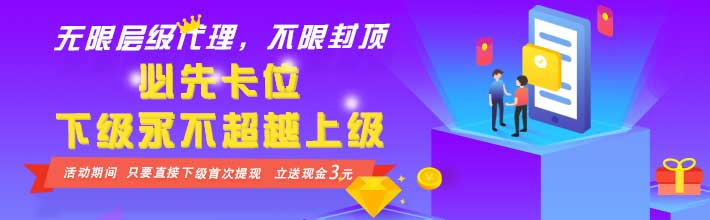
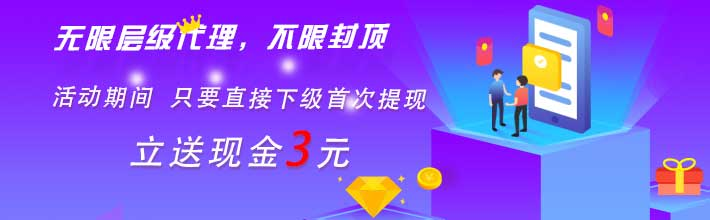
修改内容 替换图片

Changed region(s): [[0.031, 0.2727, 0.6197, 0.9]]

diff --git a/item2/收益说明.html b/item2/收益说明.html
@@ -8,7 +8,7 @@
 		<link rel="stylesheet" href="css/swiper.min.css"/>
 	    <title>app</title>
 	</head>
-	<body>
+	<body class="bg-white">
 	<section>
 		<header class="df ac jsb jc">
 			<a href="javascript:history.go(-1);" class="df flex-1"><img src="../item2/img/arrow.png"/></a>
@@ -40,6 +40,10 @@
 					你永久获的直接徒弟<span class="c-red">所有收益</span>
 					30%的额外奖励，直接徒弟收益不受影响。
 				</p>
+				<p class="profit-p">无限层级收益</p>
+				<p class="textIndex  font12">
+					达到合伙人条件后，你永久获的合伙徒弟所有收益的百分之10的额外奖励，徒弟收益不受影响。
+				</p>
 				<p class="profit-p ">合伙人收益</p>
 				<p class="textIndex  font12">
 					达到合伙人条件后，你永久获的合伙徒弟所有收益的百分之10的额外奖励，徒弟收益不受影响。
@@ -55,7 +59,7 @@
 				<p class="profit-p">收益说明举例（保守举例）</p>
 				<div class="sysmBg">
 					<img class="width100" src="img/indexImg/sysmBg.png">
-					<div><img width="250" src="img/indexImg/sysmBg-cont.png"/></div>
+					<div><img width="317" src="img/indexImg/sysmBg-cont.png"/></div>
 					<!-- <div class="font12">
 						<div class="df">
 							<p>每日挂机费用=</p>

diff --git a/item2/index.html b/item2/index.html
@@ -28,7 +28,7 @@
 				<div class="swiper-slide"><img class="width100" src="img/indexImg/banner3.jpg"/></div>
 				<div class="swiper-slide"><img class="width100" src="img/indexImg/banner4.jpg"/></div>
 				<div class="swiper-slide"><img class="width100" src="img/indexImg/banner5.jpg"/></div>
-				<!-- <div class="swiper-slide"><img class="width100" src="img/indexImg/banner6.jpg"/></div> -->
+				<div class="swiper-slide"><img class="width100" src="img/indexImg/banner6.jpg"/></div>
 				</div>
 				<!-- Add Pagination -->
 				<div class="swiper-pagination"></div>
@@ -147,7 +147,7 @@
 							</div>
 						</div>
 						<div class="df m-t-25">
-							<a href="直属徒弟详情.html" class="blueBtn blockBtn flex-1 df ac jc">直属徒弟详情</a>
+							<a href="直属徒弟详情.html" class="blueBtn blockBtn flex-1 df ac jc fc rowHeight">徒弟详情<p class="font12">直接徒弟+无限徒弟</p></a>
 							<a href="获取收徒链接.html" class="blueBtn blockBtn lineBtn flex-1 rowHeight df fc ac jc">获取收徒链接<p class="font12">赚5元+无限层级+30%</p></a>
 						</div>
 					</div>
